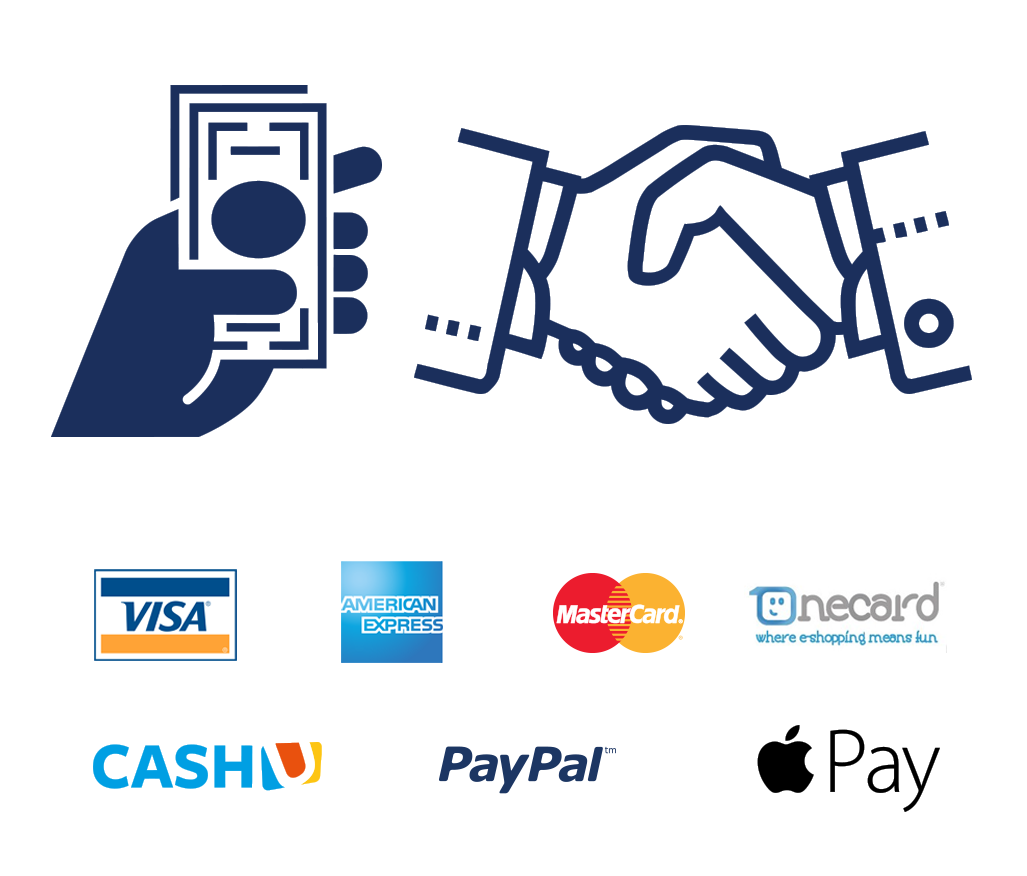
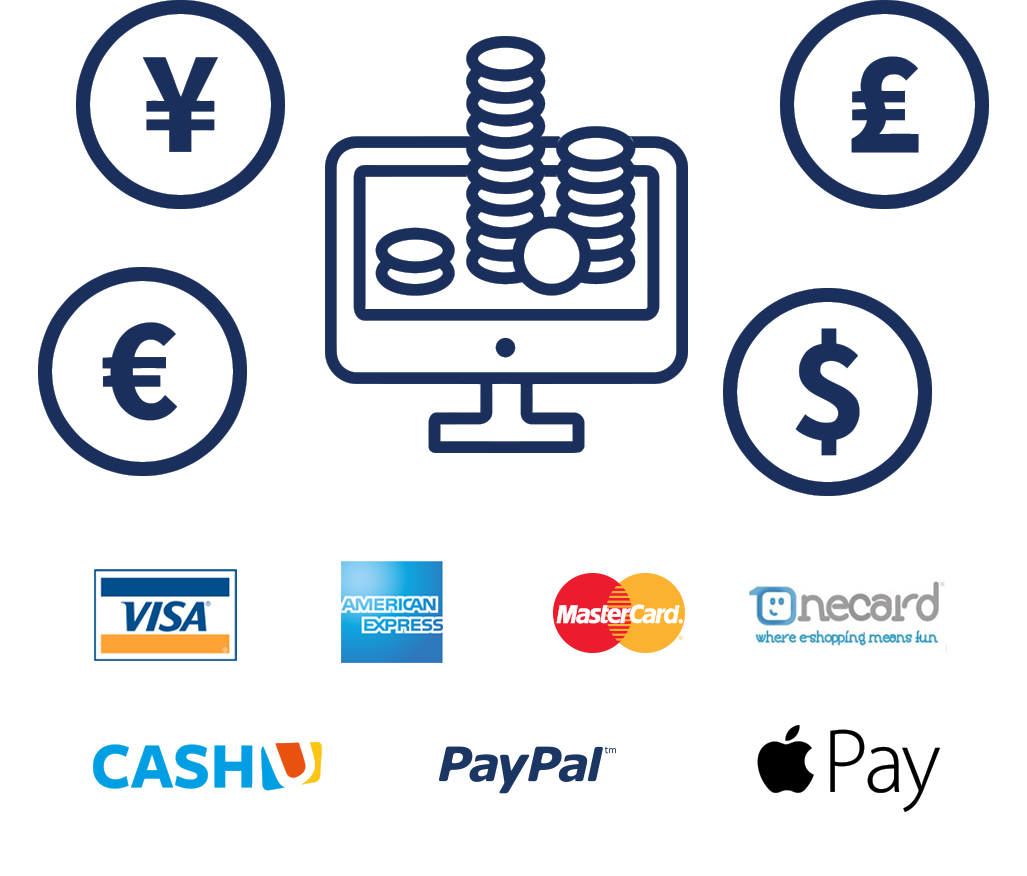
May 19 morning
updated graphic, added security logos

Changed region(s): [[0.0312, 0.0, 0.9659, 0.5856]]

diff --git a/hyperpay-draft/index.html b/hyperpay-draft/index.html
@@ -468,10 +468,7 @@
           </div>
         </div>
       </div>
-      <div class="text">Abdullah Altamami
-        <br>Business Development Manager
-        <br>Phone: +966 54 9395 956
-        <br>Email: <a class="email-link" href="mailto:aaltamami@hyperpay.com?subject=Hyperpay%20Email">aaltamami@hyperpay.com</a>
+      <div class="text"><img class="logo-footer" src="images/security logos-g.png" width="401">
       </div><img class="logo-footer" src="images/first draft-8.png" width="111">
     </div>
   </div>
